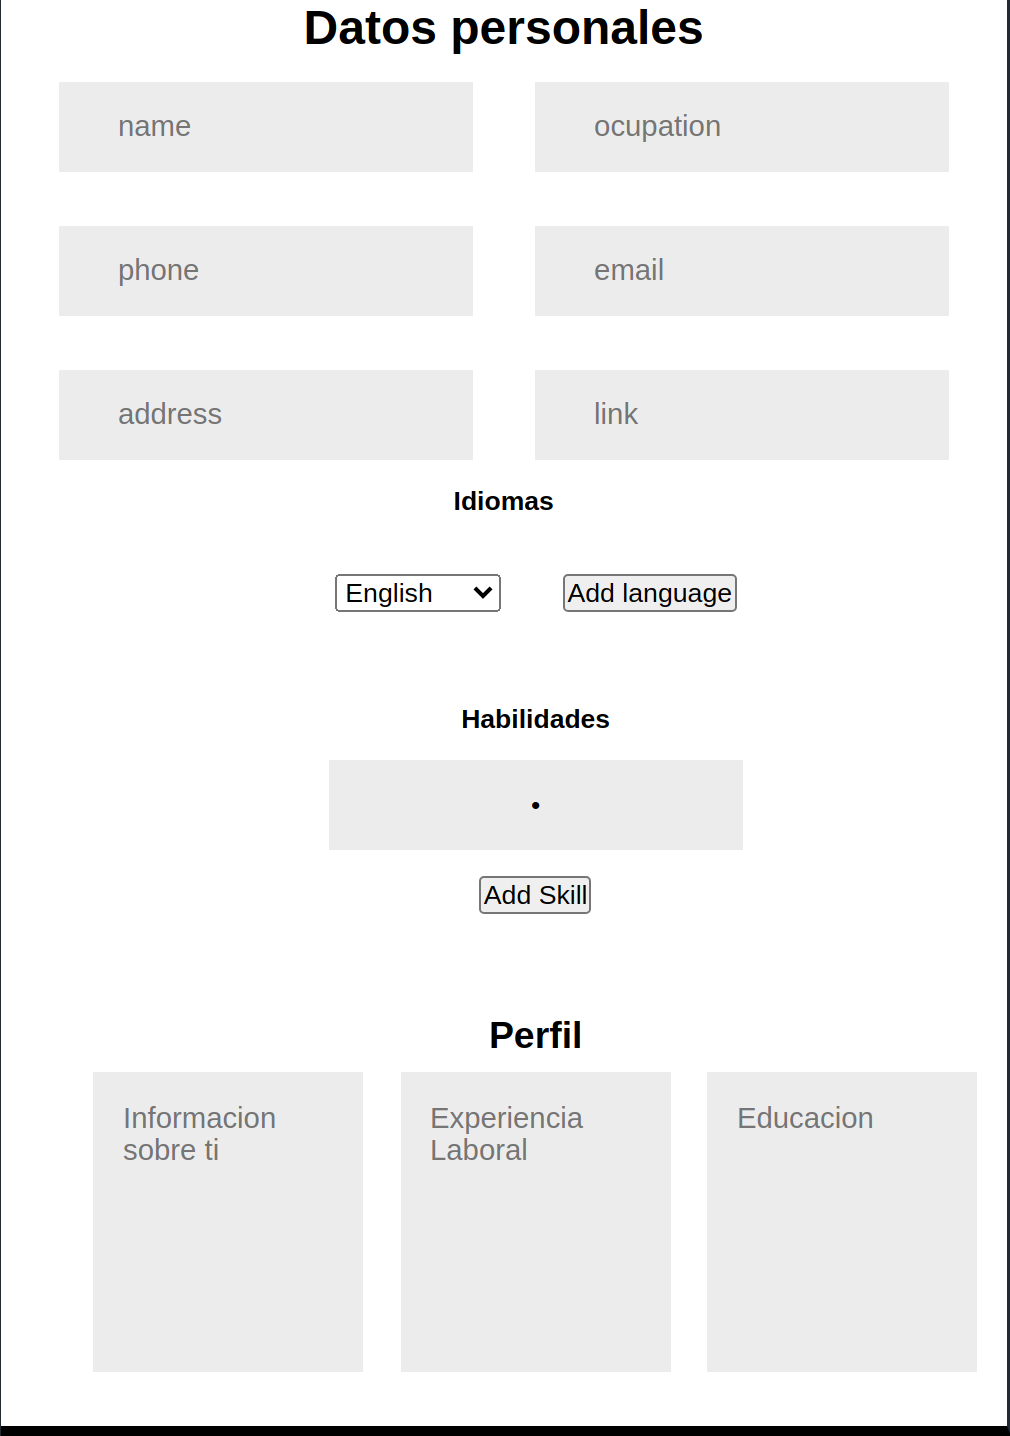
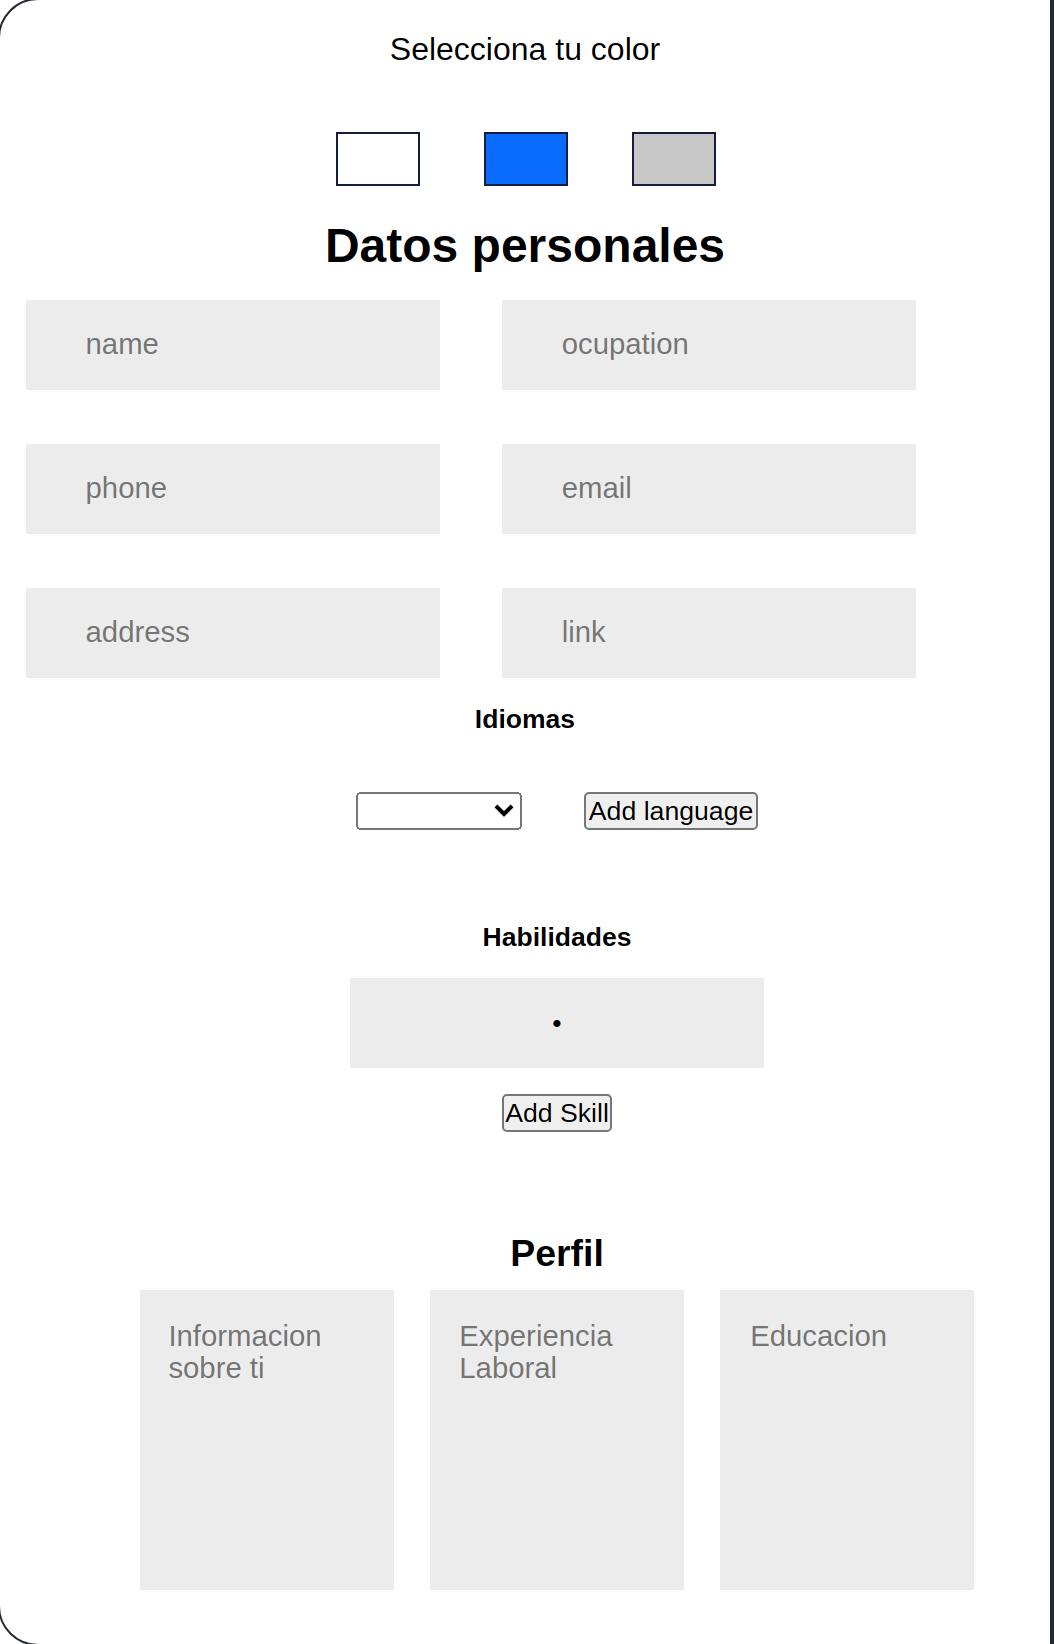
cv maker v 0.9.9

diff --git a/createcv/create js/drawAbout.js b/createcv/create js/drawAbout.js
@@ -11,7 +11,6 @@ const addLanguage = document.getElementById("addLanguage")
 const skill = document.getElementById("skill")
 const addSkill = document.getElementById("addSkill")
 
-
 nameof.addEventListener("input", () => {
 
     let contName = document.querySelector(".first")
@@ -98,4 +97,27 @@ addSkill.addEventListener("click", (e) => {
         let contSkill = document.querySelector(".skill")
         contSkill.appendChild(skilln)
     }
+})
+
+
+//Drawin Background color of the about zone
+
+const color1 = document.getElementById("bgc-1")
+const color2 = document.getElementById("bgc-2")
+const color3 = document.getElementById("bgc-3")
+const aboutZone = document.querySelector(".about")
+console.log(aboutZone)
+
+color1.addEventListener("click",()=>{
+    aboutZone.style.backgroundColor = "#fff"
+    aboutZone.style.color="#000"
+})
+
+color2.addEventListener("click",()=>{
+    aboutZone.style.backgroundColor = "rgb(0, 102, 255)"
+    aboutZone.style.color="#fff"
+})
+color3.addEventListener("click",()=>{
+    aboutZone.style.backgroundColor = "rgb(199, 199, 199)"
+    aboutZone.style.color="#000"
 })

diff --git a/createcv/template2.html b/createcv/template2.html
@@ -53,12 +53,7 @@
         <h1 class="title center">CREA TU CV</h1>
         <section class="main">
           <article class="data">
-            <p class="center margin-1em">Selecciona tu color</p>
-            <div class="cont-color-bg">
-              <div class="background border-bg" id="bgc-1"></div>
-              <div class="background border-bg" id="bgc-2"></div>
-              <div class="background border-bg" id="bgc-3"></div>
-            </div>
+           
             <h2 class="center">Datos personales</h2>
 
             <form class="data-inputs">

diff --git a/createcv/template3.html b/createcv/template3.html
@@ -52,12 +52,6 @@
         <h1 class="title center">CREA TU CV</h1>
         <section class="main">
           <article class="data">
-            <p class="center margin-1em">Selecciona tu color</p>
-            <div class="cont-color-bg">
-              <div class="background border-bg" id="bgc-1"></div>
-              <div class="background border-bg" id="bgc-2"></div>
-              <div class="background border-bg" id="bgc-3"></div>
-            </div>
             <h2 class="center">Datos personales</h2>
 
             <form class="data-inputs">

diff --git a/createcv/create css/styles.css b/createcv/create css/styles.css
@@ -125,7 +125,7 @@ div section {
     background-color:rgb(255, 255, 255);
 }
 #bgc-2{
-    background-color: rgb(0, 119, 255);
+    background-color: rgb(9, 108, 255);
     
 }
 #bgc-3{
@@ -133,9 +133,7 @@ div section {
    
 }
 
-.finalcv{
-    border: solid;
-}
+
 
 .title {
 

diff --git a/createcv/create css/template1.css b/createcv/create css/template1.css
@@ -13,14 +13,14 @@ h3{
 .preview {
     display: grid;
     grid-template-columns: 30% 68%;
-    padding-top:1em;
 }
 
 .about {
     height: 100%;
     margin-right:10px;
     word-wrap: break-word;
-    background: rgb(197, 197, 197);
+    padding:1em;
+    
 }
 
 .about div {

diff --git a/Css/styles.css b/Css/styles.css
@@ -98,8 +98,8 @@ div .logo {
 }
 
 .slider img {
-    width:70%;
-    height: 460px;
+    width:75%;
+    height: 490px;
 }
 
 .about {

diff --git a/createcv/create css/template4.css b/createcv/create css/template4.css
@@ -29,6 +29,7 @@
 }
 .proffesional{
     width:95%;
+    padding:10px;
 }
 .proffesional div p{
     height: 100%;

diff --git a/createcv/create css/template2.css b/createcv/create css/template2.css
@@ -20,6 +20,7 @@
 
 .about {
     height: 100%;
+    width:100%;
 }
 
 .about div {
